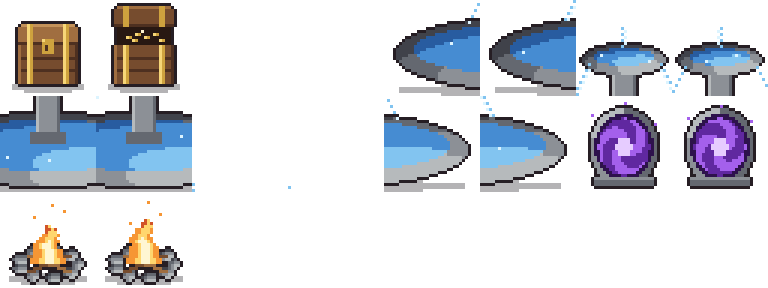
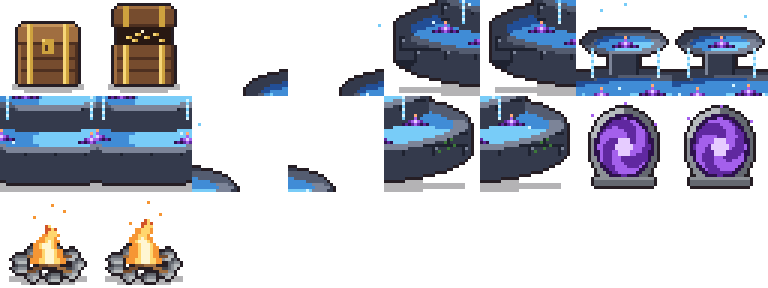
Fuente de tres pisos con nenúfares (de la imagen de Pedro), sprite también en 3D; el Rey Limo pasa a llamarse Guardián del Bosque

diff --git a/src/render/mundo/mundo.ts b/src/render/mundo/mundo.ts
@@ -21,7 +21,6 @@ import {
   type MaterialesBosque,
   type SombraSuelo,
 } from './borde';
-import { crearFuente } from './fuente';
 import { crearHundidos } from './hundidos';
 import { crearBarrera } from './modelos';
 import { ajustarPixelArt, cuentaColores, pintar, textura } from './texturas';
@@ -74,7 +73,6 @@ export interface VistaSala {
   /** Lo que se ve de cada objeto (modelo o sprite), para rehacerlo si cambia (el cofre al abrirse, el portal). */
   objetos: Map<ObjetoSala, THREE.Object3D>;
   piezas: Map<ObjetoSala, Pieza>;
-  fuente: { actualizar: (tiempo: number) => void } | null;
   hundidos: { actualizar: (tiempo: number) => void } | null;
   /** Luces puntuales de sus objetos (hoguera, candelabros, portal) y dónde están. */
   luces: { luz: LuzHd2d; x: number; z: number; fase: number }[];
@@ -298,7 +296,6 @@ export class Mundo {
       sala,
       objetos: new Map(),
       piezas: new Map(),
-      fuente: null,
       hundidos: null,
       luces: [],
       barreras: [],
@@ -428,36 +425,22 @@ export class Mundo {
     if (!z) return;
     const { imagenes, tam } = z;
     const nombre = o.inf.name;
-    let obj: THREE.Object3D;
-    if (nombre.startsWith('fuente_')) {
-      // La fuente ocupa tres casillas; el modelo va con la del centro y choca con su elipse (ver chocarConElipse).
-      if (nombre !== 'fuente_cen_inf') return;
-      const f = this.a.fuente;
-      // Píxeles del dibujo por píxel lógico de la sala.
-      const escala = (this.sala2d.ancho * this.renderer.domElement.width) / innerWidth / SALA_ANCHO;
-      const fuente = crearFuente(f, v.azar, escala);
-      fuente.grupo.position.set(o.x + 0.5, 0, o.y + f.centroZ);
-      v.fuente = fuente;
-      obj = fuente.grupo;
-    } else {
-      const tiles = [o.sup, o.inf].filter((t): t is Tile => t !== null);
-      const lienzo = pintar(1, tiles.length, tam, () => {});
-      const pieza = { tiles, ctx: lienzo.getContext('2d')!, tex: textura(lienzo), frame: -1 };
-      pintarPieza(pieza, imagenes, tam, 0);
-      if (tiles.some((t) => t.frames)) v.piezas.set(o, pieza);
-      const plano = carton(
-        new THREE.MeshLambertMaterial({ map: pieza.tex, alphaTest: 0.5, side: THREE.DoubleSide }),
-        1,
-        tiles.length,
-        0,
-      );
-      plano.position.set(o.x + 0.5, 0, o.y + 0.85);
-      plano.rotation.x = -this.giro;
-      plano.scale.y = this.estirar;
-      obj = plano;
-    }
-    v.objetos.set(o, obj);
-    v.grupo.add(obj);
+    const tiles = [o.sup, o.inf].filter((t): t is Tile => t !== null);
+    const lienzo = pintar(1, tiles.length, tam, () => {});
+    const pieza = { tiles, ctx: lienzo.getContext('2d')!, tex: textura(lienzo), frame: -1 };
+    pintarPieza(pieza, imagenes, tam, 0);
+    if (tiles.some((t) => t.frames)) v.piezas.set(o, pieza);
+    const plano = carton(
+      new THREE.MeshLambertMaterial({ map: pieza.tex, alphaTest: 0.5, side: THREE.DoubleSide }),
+      1,
+      tiles.length,
+      0,
+    );
+    plano.position.set(o.x + 0.5, 0, o.y + 0.85);
+    plano.rotation.x = -this.giro;
+    plano.scale.y = this.estirar;
+    v.objetos.set(o, plano);
+    v.grupo.add(plano);
     const luz = this.a.luces[nombre];
     v.luces = v.luces.filter((l) => l.x !== o.x + 0.5 || l.z !== o.y + 0.6);
     if (luz) {
@@ -615,7 +598,6 @@ export class Mundo {
   private animar(v: VistaSala, tiempo: number): void {
     const z = this.zona;
     if (z) for (const p of v.piezas.values()) pintarPieza(p, z.imagenes, z.tam, tiempo);
-    v.fuente?.actualizar(tiempo);
     v.hundidos?.actualizar(tiempo);
     for (let i = 0; i < this.puntuales.length; i++) {
       const luz = this.puntuales[i]!;

diff --git a/src/core/types.ts b/src/core/types.ts
@@ -384,19 +384,10 @@ export interface Hd2dJson {
   /** Lo que queda entre la cámara y la heroína se vuelve transparente: radio en casillas alrededor de ella, casillas por delante desde las que empieza y opacidad que se quita como mucho. */
   transparencia: { radio: number; margen: number; maximo: number };
   fuente: {
-    /** Cuánto baja la fuente dentro de su casilla central, semiejes del pilón y altos, en casillas. */
+    /** Cuánto baja la fuente dentro de su casilla central y semiejes de la elipse con la que choca, en casillas. */
     centroZ: number;
     radioX: number;
     radioZ: number;
-    altoBorde: number;
-    altoAgua: number;
-    altoColumna: number;
-    /** Piedra (clara, media, oscura) y agua (honda, clara). */
-    piedra: string[];
-    agua: string[];
-    /** Gotas que caen de la taza y segundos que tarda cada una. */
-    gotas: number;
-    vidaGota: number;
   };
   /**
    * Portada: una sala de una zona en 3D con las ranas y dos monstruos. `encuadre`, punto al que mira la cámara

diff --git a/tests/jefes.test.ts b/tests/jefes.test.ts
@@ -30,7 +30,7 @@ describe('jefes', () => {
     expect(puedeHuir(contra('rey_limo'))).toBe(false);
   });
 
-  test('el Rey Limo, al bajar del 50 %, se retira y aparecen dos Limos grandes', () => {
+  test('el Guardián del Bosque, al bajar del 50 %, se retira y aparecen dos Limos grandes', () => {
     const c = contra('rey_limo');
     const rey = c.enemigos[0]!;
     rey.pv = 31; // un golpe de (30 − 2,5) = 27 lo deja en 4: por debajo de 30
@@ -38,7 +38,7 @@ describe('jefes', () => {
     expect(eventos).toContainEqual({
       tipo: 'aviso',
       actor: rey,
-      texto: '¡El Rey Limo se divide en dos!',
+      texto: '¡El Guardián del Bosque se retira y suelta dos limos!',
       retira: true,
     });
     expect(rey.pv).toBe(0);

diff --git a/src/escenas/mapa.ts b/src/escenas/mapa.ts
@@ -130,7 +130,7 @@ export interface OpcionesMapa {
   /** Estadísticas de combate de la heroína y nombre de la zona, para el HUD. */
   luchadora: Luchador;
   nombreZona: string;
-  /** Segundos que llueve al vencer al jefe de la zona (el Rey Limo devuelve la lluvia); 0, nada. */
+  /** Segundos que llueve al vencer al jefe de la zona (el Guardián del Bosque devuelve la lluvia); 0, nada. */
   lluviaTrasJefe: number;
   /** Pistas de controles que se enseñan una tras otra al empezar (solo la primera vez), y cuánto dura cada una. */
   pistas: readonly string[];

diff --git a/tools/generadores/entorno/comunes.py b/tools/generadores/entorno/comunes.py
@@ -35,31 +35,66 @@ def chest(opened=False):
     return t
 
 
+PIEDRA = [(30, 34, 48), (52, 58, 76), (84, 92, 112), (124, 132, 152)]  # la piedra de la fuente: azulada y oscura
+AGUA_F = [(34, 78, 150), (64, 140, 214), (120, 204, 248), (214, 244, 255)]
+PISTILO = (255, 170, 120)
+
+
+def _juntas(t, x0, x1, y0, y1):
+    """Piedras de la pared de un piso: juntas oscuras en filas desfasadas, con un filo claro arriba de cada una."""
+    for k, y in enumerate(range(y0, y1, 4)):
+        line(t, x0, y, x1, y, PIEDRA[0])
+        for x in range(x0 + (k % 2) * 5, x1, 10):
+            line(t, x, y, x, min(y + 3, y1), PIEDRA[0])
+            put(t, x + 1, y + 1, PIEDRA[3])
+
+
+def _piso(t, cx, cy, rx, ry, alto):
+    """Un piso: pared de piedra con juntas, borde claro y la lámina de agua dentro."""
+    ellipse(t, cx, cy + alto, rx, ry, [PIEDRA[0], PIEDRA[1], PIEDRA[1]])
+    rect(t, cx - rx, cy, cx + rx, cy + alto, PIEDRA[1])
+    _juntas(t, cx - rx + 1, cx + rx - 1, cy + 3, cy + alto)
+    ellipse(t, cx, cy, rx, ry, [PIEDRA[1], PIEDRA[2], PIEDRA[3]])
+    ellipse(t, cx, cy + 0.6, rx - 5, ry - 2.6, [AGUA_F[0], AGUA_F[1], AGUA_F[1], AGUA_F[2]])
+
+
+def _nenufar(t, cx, cy):
+    """Flor de loto morada con hojas, de unos 9x4 píxeles."""
+    for dx, dy, c in ((-4, 1, VIO[0]), (-3, 1, VIO[1]), (3, 1, VIO[1]), (4, 1, VIO[0]), (-2, 0, VIO[1]), (-1, 0, VIO[2]),
+                      (0, -1, VIO[2]), (1, 0, VIO[2]), (2, 0, VIO[1]), (-1, 1, VIO[1]), (0, 1, VIO[2]), (1, 1, VIO[1]),
+                      (-2, 1, VIO[0]), (2, 1, VIO[0]), (0, 0, VIO[3])):
+        put(t, cx + dx, cy + dy, c)
+    put(t, cx, cy - 2, PISTILO)
+
+
 def fountain(frame):
-    """Fuente de la sala de descanso: 3 casillas de ancho y 2 de alto (96x64)."""
+    """Fuente de la sala de descanso: 3 casillas de ancho y 2 de alto (96x64). Tres pisos de piedra con agua
+    que cae de uno a otro, nenúfares morados y chispas azules (sale de la imagen 14 de las referencias)."""
     t = tile(2 * S, 3 * S)
-    # Pilón ancho con su agua.
-    ellipse(t, 48, 50, 44, 12, ST)
-    ellipse(t, 48, 48.5, 38, 8.5, [WATER[0], WATER[1], WATER[1], WATER[2]])
-    # Columna central y taza de arriba, también con agua.
-    rect(t, 44, 20, 51, 47, ST[2]); line(t, 44, 20, 44, 47, ST[3]); line(t, 51, 20, 51, 47, ST[1])
-    rect(t, 42, 44, 53, 47, ST[1])
-    ellipse(t, 48, 20, 14, 5, ST)
-    ellipse(t, 48, 19, 10.5, 2.8, [WATER[0], WATER[1], WATER[2]])
+    _piso(t, 48, 41, 44, 10, 10)   # el pilón de abajo
+    _piso(t, 48, 30, 30, 7, 7)     # el piso de en medio
+    # Columna y taza de arriba
+    rect(t, 43, 15, 52, 24, PIEDRA[1]); line(t, 43, 15, 43, 24, PIEDRA[3]); line(t, 52, 15, 52, 24, PIEDRA[0])
+    ellipse(t, 48, 14, 14, 4.5, [PIEDRA[1], PIEDRA[2], PIEDRA[3]])
+    ellipse(t, 48, 14.4, 10, 2.6, [AGUA_F[0], AGUA_F[1], AGUA_F[2]])
     outline(t)
-    # Agua que se mueve (sin contorno): chorro, caída por los bordes de la taza y destellos.
-    for k in range(7):
-        put(t, 47 + (frame + k) % 2, 15 - k, WATER[2 + (k % 2)])
+    # Cascadas de un piso al siguiente (sin contorno) y centelleo del agua
     for lado in (-1, 1):
-        for k in range(18):
-            x = 48 + lado * (12 + k * 0.45)
-            put(t, x, 21 + k + (frame + k) % 2, WATER[2 + (k + frame) % 2])
-    chispas = [(22, 46), (70, 49), (34, 52), (60, 45), (48, 53), (14, 49)]
-    for i, (x, y) in enumerate(chispas):
+        for k in range(10):
+            put(t, 48 + lado * 11, 16 + k, AGUA_F[2 + (k + frame) % 2])
+        for dx in (22, 14):
+            for k in range(9):
+                put(t, 48 + lado * dx, 31 + k, AGUA_F[2 + (k + frame) % 2])
+    for x, y in ((20, 41), (74, 40), (32, 45), (62, 46), (40, 31), (57, 30), (48, 14)):
+        _nenufar(t, x, y)
+    for i, (x, y) in enumerate(((16, 39), (80, 42), (28, 33), (68, 32), (36, 47), (60, 44), (46, 29), (52, 28))):
         if (i + frame) % 2 == 0:
-            put(t, x, y, WATER[3])
-    for x, y in ((40, 18), (56, 20)) if frame == 0 else ((43, 20), (53, 18)):
-        put(t, x, y, WATER[3])
+            put(t, x, y, AGUA_F[3])
+    for i, (x, y) in enumerate(((40, 3), (56, 5), (48, 1), (30, 8), (66, 9))):  # chispas sobre la fuente
+        if (i + frame) % 2 == 0:
+            put(t, x, y, AGUA_F[2])
+    for x, y in ((84, 47), (85, 49), (86, 46), (82, 50), (87, 48)):  # hiedra en la pared
+        put(t, x, y, (60, 120, 56))
     ground_shadow(t, 48, 62, 44, 2)
     return t
 

diff --git a/CLAUDE.md b/CLAUDE.md
@@ -21,7 +21,7 @@ Si el diseño y este archivo discrepan, manda el documento; avisa de la discrepa
 - **Monstruos nuevos (2026-10-30), rama `monstruos-nuevos`: entrega 2 del Cauce Seco** (plan en `docs/superpowers/plans/2026-10-30-monstruos-nuevos.md`). **Jabalí** y **Cuervo** entran en el Bosque y el **Lobo** en la Cripta; el **Espectro** sale de la Cripta y queda con `oculto: true` hasta el Cauce Seco (así «Naturalista» no lo pide). Sprites de 32×32 (el jabalí, 40×40) dibujados por script (`jabali.py`, que reduce su imagen de referencia y la repinta con la paleta del juego; `criaturas.py`: cuervo; `humanoides.py`: lobo), con las imágenes de `docs/superpowers/mockups/cauce-seco-referencias/` como guía; imagen de revisión en `docs/previews/monstruos_nuevos_x4.png`. Para regenerar solo los monstruos: `.venv\Scripts\python.exe tools\generadores\monstruos\generar.py` (nunca `generar_todo.py`) y luego `git checkout` de lo que reescriba sin necesidad (`espectro.png` y `golem.png` cambian de bytes aunque sean iguales). El bestiario pasa a 7 casillas por fila (21). Reequilibrado: lobo 54 PV/ataque 15/velocidad 8, jabalí 25 PV/ataque 7, cuervo ataque 6, PV iniciales de la ronin 46 y de la maga 40, ataque de monstruos en Fácil ×1,08 y recuperación en Difícil 0,44. Resultado (ronin / maga): Fácil 70 / 69, Normal 49 / 53, Difícil 32 / 32. Nota para el Cauce Seco: `tests/monstruos.test.ts` exige que los Dragones negros compartan sprite. **El arte lo tiene que aprobar Pedro** (el jabalí se rehízo cuatro veces tras sus comentarios; la comparación con su imagen está en `docs/previews/jabali_comparacion.png`).
 - **Arte del Cauce Seco (2026-10-30), rama `arte-cauce-seco` (PR #14, sin fusionar): entrega 3a** (plan en `docs/superpowers/plans/2026-10-30-arte-cauce-seco.md`). Solo arte, **sin datos todavía** (las fichas, los grupos y el equilibrado van en la 3d). Sprites nuevos en `public/assets/sprites/monstruos/`: `acolito` (40×40, reducido de su referencia), `salamandra` (40×40, a mano: oscura, con grietas de brasa y la cola ardiendo), `sacerdote` (48×48, a mano: alto y flaco, brazos abiertos, mangas rasgadas, ojos de rendija y el sol roto detrás; rehecho tras decir Pedro que no daba miedo), `oni` (48×48, reducido de su referencia con la máscara de calavera repintada encima y la sombra del suelo quitada como fondo) y `dragon_fuego` (64×48, reducido de su referencia; **recurso sin uso**: el Dragón negro se mantiene en las cuatro zonas). El **Dragón negro** se rehízo más fiero (cuernos de hueso, colmillos, cuerpo más negro, halo rojo en el ojo, brasas). `tools/generadores/monstruos/reducir.py` es el método para sacar un sprite de una imagen (quita el fondo, reduce con `brillo`/`saturacion`/`contraste`, limpia la silueta y pone contorno); el aviso «toca el borde del cuadro» de `generar.py` vigila los monstruos de `VIGILADOS`. Pedro pidió que el arte sea **sobrio y oscuro, no infantil** (sin ojos grandes y redondos ni naranjas lisos). Test de formato: `tests/hojas_cauce.test.ts`. Imagen de revisión: `docs/previews/cauce_monstruos_x3.png`. **El arte lo tiene que aprobar Pedro.**
 - **La zona del Cauce Seco (2026-10-30), rama `cauce-seco-zona` (sale de `arte-cauce-seco`): entrega 3b, hecha y subida, sin fusionar ni activar** (plan en `docs/superpowers/plans/2026-10-30-zona-cauce-seco.md`). **La zona sigue sin estar en `zonas.json`**: `cauce` solo aparece en `hd2d.json`, `sonido.json`, los tilesets, las plantillas, `main.ts` (visor de desarrollo) y los tests. Qué hay: tileset `cauce` (`tools/generadores/entorno/cauce.py`: muros de obsidiana violácea con hornacina de aro de fuego y veta de brasa, puertas con aro de fuego, suelo de lecho pardo con guijarros y brasas; pilar con grieta de brasa, roca, escombros, columna rota y `brasero` de dos fotogramas), autotiles `lecho` y `lava` (`zonas_auto.py`, `cauce_auto()`), 8 plantillas (`plantillas_cauce.json`, símbolo `B` = brasero; la fuente del descanso es el único agua, decisión mía **sin confirmar con Pedro**), aspecto 3D (`zonas.cauce` y `luces.brasero` en `hd2d.json`) y una pista de música `cauce` (tempo 90, re frigio, tres voces; **no se ha oído**, solo se comprobó que está bien formada). **Cómo verla:** `npm run dev` y abrir `?portada=cauce_combate_01` (o `cauce_descanso_01`, `cauce_jefe_01`, `cauce_tesoro_01`…); `&vista=x,z,ancho` acerca la cámara (solo en desarrollo). Imagen de revisión: `docs/previews/cauce_zona_x2.png`. **El mapa 3D cambió para todas las zonas (2026-10-30):** los muros del borde son cajas con el tile de remate arriba y el de cara en los lados (antes, ruido de tres colores; se quitaron `hiladas`, `porCasilla`, `irregular`, `salida` y `hueco` de `borde` en `hd2d.json`) y **todos los objetos son sprites de pie con su dibujo real** (se borró `crearModelo` y sus modelos de formas sencillas; quedan solo las barreras de las salidas, `crearBarrera`). Pedro lo pidió: «quiero que se vea como lo hemos diseñado». **Sin probar en el móvil ni en una partida** (solo con Edge sin cabeza en la portada, y no se vieron las Ruinas ni la Cripta). Pendiente: las puertas abiertas con su arco no se ven en 3D (se pintan como suelo). Falta 3c (equipo de nivel 4, textos, bestiario) y 3d (activar, fichas de datos, equilibrado).
-- **Jefes rehechos desde imágenes de Pedro (2026-10-30), en `cauce-seco-zona`:** el arte de los jefes sale ahora de sus imágenes de referencia (`docs/superpowers/mockups/cauce-seco-referencias/8` a `13`) con `reducir.py`, un módulo por jefe en `tools/generadores/monstruos/` y registrado en `PROPIOS`: `guardian_bosque.py` (clave `rey_limo`, que **sigue llamándose «Rey Limo» en `monstruos.json`**: renombrarlo toca `monstruos.json`, `zonas.json` y `tests/jefes.test.ts`; propuesta «Guardián del Bosque»; 64×48), `golem.py` (48×48), `reina_arana.py` (64×48), `senor_cripta.py` (48×48, imagen de la calavera con espada con la figura separada del fondo con un contorno a mano) y `rey_sin_charca.py` (64×48). Pedro: «los jefes con corona son muy infantiles», «quiero que se sientan jefes amenazantes, guardianes de su zona». Trucos que funcionaron: paleta fija (si no, el turquesa y el negro se hunden), afilar antes de reducir, dibujar a mano lo que se pierde (cuchillas de la cresta, calavera y ojos), recortar o comprimir la figura para ganar píxeles de ancho. Galería: `docs/previews/todos_monstruos.png`. Límite: en combate cada sprite se dibuja al doble y por encima solo cabe hasta ~42 px (nombre y barra de turnos), así que un cuadro mayor de 48 de alto no sirve. **El Señor de la Cripta (negro, gris y rojo) y el Rey sin Charca (negro con fuego morado) ya no se parecen tanto, y el diseño dice que uno se transforma en el otro: Pedro no lo ha comentado.**
+- **Jefes rehechos desde imágenes de Pedro (2026-10-30), en `cauce-seco-zona`:** el arte de los jefes sale ahora de sus imágenes de referencia (`docs/superpowers/mockups/cauce-seco-referencias/8` a `13`) con `reducir.py`, un módulo por jefe en `tools/generadores/monstruos/` y registrado en `PROPIOS`: `guardian_bosque.py` (clave `rey_limo`, que **ya se llama «Guardián del Bosque» en `monstruos.json`**, con su aviso y `tests/jefes.test.ts` cambiados; 64×48), `golem.py` (48×48), `reina_arana.py` (64×48), `senor_cripta.py` (48×48, imagen de la calavera con espada con la figura separada del fondo con un contorno a mano) y `rey_sin_charca.py` (64×48). Pedro: «los jefes con corona son muy infantiles», «quiero que se sientan jefes amenazantes, guardianes de su zona». Trucos que funcionaron: paleta fija (si no, el turquesa y el negro se hunden), afilar antes de reducir, dibujar a mano lo que se pierde (cuchillas de la cresta, calavera y ojos), recortar o comprimir la figura para ganar píxeles de ancho. Galería: `docs/previews/todos_monstruos.png`. **Fuente nueva (2026-10-30):** el sprite de la fuente de descanso (`fountain()` en `tools/generadores/entorno/comunes.py`, 96×64) se dibujó a mano con las formas de la imagen `14-fuente.png` (tres pisos de piedra con juntas, cascadas animadas, nenúfares morados, chispas); reducir la imagen no daba detalle a ese tamaño. En 3D es ahora un sprite de pie como los demás objetos: se borró `src/render/mundo/fuente.ts` y de `hd2d.json` solo quedan `centroZ`, `radioX` y `radioZ` de `fuente` (la colisión). Captura: `docs/previews/fuente_3d.png`. Límite: en combate cada sprite se dibuja al doble y por encima solo cabe hasta ~42 px (nombre y barra de turnos), así que un cuadro mayor de 48 de alto no sirve. **El Señor de la Cripta (negro, gris y rojo) y el Rey sin Charca (negro con fuego morado) ya no se parecen tanto, y el diseño dice que uno se transforma en el otro: Pedro no lo ha comentado.**
 - **Menús nuevos de combate e inventario (2026-10-26)**, rama `menus-nuevos`: estilo de Octopath (doble filete con rombos, brillo y rombo de cursor) en lavanda de Nenúfar, con la barra de PX en verde (`src/render/marco.ts`, colores en `PALETA`). Combate: panel abajo en dos columnas (lista con el coste y, a la derecha, qué hace lo elegido y la ficha de la heroína); la escena sube para no tapar a ningún jefe; sin botón «i» (la descripción está siempre a la vista). Inventario: lista a la izquierda (Heroína, Objetos, Equipo, Mejorar, Ajustes; Seguir y Salir abajo) y la sección a la derecha. Toque: dos toques (el primero elige y dice qué hace) en habilidades, objetos y enemigo; uno en lo demás (`src/core/menu.ts`). Diseño en `docs/superpowers/specs/2026-10-26-menus-design.md`, bocetos en `docs/superpowers/mockups/`; la disposición A (lista junto a quien actúa) queda como idea.
 - **Estilo lavanda en todas las pantallas (2026-10-27), rama `estilo-pantallas`.** Elegir rana, nombre, dificultad, puntos, equipo, portada, bestiario y logros, controles, mensajes, cartel de victoria, avisos del HUD y minimapa usan `src/render/marco.ts` (`dibujarFondo`, `dibujarCabecera`, `dibujarCaja`, `dibujarMarco`, `dibujarFila`, `PALETA`). `dibujarMenu` (botones) ya pinta cajas lavanda; `rectOpcion` sigue en uso. Quedan dorados solo en arte (mochila, modelos 3D). **Niebla (2026-10-27):** en el mapa el desenfoque ya no sigue a la heroína: la zona jugable se ve nítida y solo se emborronan los árboles de alrededor (`src/render/mundo/desenfoque.ts`, números en `bordes` de `hd2d.json`: `muro` 1, `fuerza` 6; con `muro` 2 la heroína sale borrosa al pegarse al borde). El combate y la portada siguen con el tilt-shift.
 - **Pantalla completa y sala grande (2026-10-27), rama `pantalla-completa`, publicada.** El mapa 3D y el canvas 2D cubren toda la ventana. La sala es de 21×13 tiles (672×416, `SALA_ANCHO`/`SALA_ALTO` en `src/render/pantalla.ts`) y se escala a todo lo que cabe, sin múltiplo entero. El canvas 2D tiene dos formas de colocarse (`fijarModo`, `colocarContexto`, `aLogico`): «ventana» (el mapa: HUD arriba a los lados, minimapa a la izquierda de la mochila con escala entera según el ancho libre, `ESCALA_HUD` 0,75) y «menú» (todo lo demás: la interfaz de 480×352 centrada; los fondos llenan `area`). Cada escena dice con `ventana` si dibuja en coordenadas de ventana y con `conMundo` si usa el 3D (si no, se oculta). El panel de acción del combate se dibuja a `PANEL_ESCALA` (`aPanel` para el toque; 0,8 se quedaba pequeño para el dedo, desde 2026-10-29 es 1). Decorado de fuera de la sala en `crearExterior` (`borde.ts`, `exterior` de `hd2d.json`). Las plantillas (24) se ensancharon con un script y se les repartió decorado al azar con semilla: sin retocar a mano. Pendiente: el fundido entre salas solo cubre la ventana del mapa pero no probado en móvil; Ruinas y Cripta, exterior muy plano; Pedro tiene que probarlo en el móvil.

diff --git a/docs/superpowers/specs/2026-10-30-cauce-seco-design.md b/docs/superpowers/specs/2026-10-30-cauce-seco-design.md
@@ -169,7 +169,8 @@ Los cofres de cada zona dan objetos de un nivel (Bosque 1, Ruinas 2, Cripta 3). 
 
 ## Cambios del 2026-10-30 (noche)
 
-- **Los cinco jefes se rehacen a partir de imágenes de Pedro** (Guardián del Bosque, Golem, Reina Araña, Señor de la Cripta y Rey sin Charca): sobrios, oscuros y amenazantes, sin coronas. Ver `CLAUDE.md` y `docs/previews/todos_monstruos.png`. El Rey Limo pasa a ser un gusano-dragón cubierto de musgo (se propone llamarlo «Guardián del Bosque»).
+- **Los cinco jefes se rehacen a partir de imágenes de Pedro** (Guardián del Bosque, Golem, Reina Araña, Señor de la Cripta y Rey sin Charca): sobrios, oscuros y amenazantes, sin coronas. Ver `CLAUDE.md` y `docs/previews/todos_monstruos.png`. El Rey Limo pasa a ser un gusano-dragón cubierto de musgo y se llama **«Guardián del Bosque»** (clave `rey_limo`).
 - **La zona (3b) está hecha pero sin activar:** tileset `cauce`, autotiles `lecho` y `lava`, ocho plantillas, aspecto 3D, luz y modelo del brasero, y una pista de música. Imagen de revisión: `docs/previews/cauce_zona_x2.png`.
 - **El mapa 3D de todas las zonas se ve como el arte:** los muros del borde llevan el tile de remate y el de cara (antes, ruido), y los objetos son sprites de pie con su dibujo (antes, modelos de formas sencillas). Decisión de Pedro.
-- **Sin decidir:** si la fuente del descanso del Cauce Seco lleva agua azul (así está), el nombre nuevo del Rey Limo, y cómo se relacionan el arte del Señor de la Cripta y el del Rey sin Charca, que se transforman uno en otro.
+- **La fuente de descanso se rehízo** con una imagen de Pedro (tres pisos, nenúfares morados) y se ve como sprite en 3D en todas las zonas.
+- **Sin decidir:** si la fuente del descanso del Cauce Seco lleva agua azul (así está), y cómo se relacionan el arte del Señor de la Cripta y el del Rey sin Charca, que se transforman uno en otro.

diff --git a/docs/historia.md b/docs/historia.md
@@ -35,7 +35,7 @@ Cada zona tiene un cartel al entrar (nombre y una o dos líneas) y su jefe dice 
 
 > Aquí cayó la última lluvia antes del eclipse. El agua se pudre entre los árboles.
 
-**Rey Limo.** Era el espíritu de la lluvia; el agua podrida del eclipse lo ha convertido en un monstruo.
+**Guardián del Bosque (antes «Rey Limo»; clave `rey_limo`).** Era el espíritu de la lluvia; el agua podrida del eclipse lo ha convertido en un monstruo.
 
 - Al empezar: «El agua... es... mía.»
 - Al caer: «La lluvia... recuerdo... la lluvia...» (la lluvia vuelve un momento y deja ver el camino a las Ruinas)
@@ -120,4 +120,4 @@ Una línea antes del resumen: «Esa noche, la luna no volvió a encenderse.»
 - Cada página es una pantalla de texto sobre fondo oscuro, sin ilustración; se pasa con Enter o un toque. Las frases de los jefes también: una pantalla con su nombre antes del combate y otra al caer (antes de la subida de nivel).
 - El cartel de cada zona sale al entrar en ella; el HUD sigue diciendo «Bosque».
 - **El ciclo:** quien vence al jefe final ocupa su lugar. Su nombre se guarda en el navegador y en la partida siguiente el jefe final es «<nombre>, Señora de la Cripta». Solo cuenta ganar; sin victorias previas es el Señor de la Cripta.
-- Al caer el Rey Limo llueve unos segundos sobre el mapa (`lluvia` en su jefe de `historia.json`; con menos movimiento, solo se oscurece).
+- Al caer el Guardián del Bosque llueve unos segundos sobre el mapa (`lluvia` en su jefe de `historia.json`; con menos movimiento, solo se oscurece).
